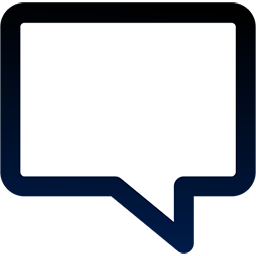
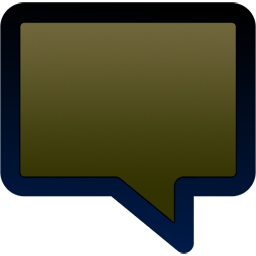
updated callout sizing and graphics asset

diff --git a/lib/components/callout.dart b/lib/components/callout.dart
@@ -12,7 +12,6 @@ class Callout {
   double value;
 
   TextPainter tp;
-  TextStyle textStyle;
   Offset textOffset;
 
   Callout(this.fly) {
@@ -21,10 +20,6 @@ class Callout {
     tp = TextPainter(
       textAlign: TextAlign.center,
       textDirection: TextDirection.ltr,
-    );
-    textStyle = TextStyle(
-      color: Color(0xff000000),
-      fontSize: 15,
     );
   }
 
@@ -46,15 +41,18 @@ class Callout {
     }
 
     rect = Rect.fromLTWH(
-      fly.flyRect.left - (fly.game.tileSize * .25),
-      fly.flyRect.top - (fly.game.tileSize * .5),
+      fly.flyRect.left - (fly.game.tileSize * .75),
+      fly.flyRect.top - (fly.game.tileSize * .625),
       fly.game.tileSize * .75,
       fly.game.tileSize * .75,
     );
 
     tp.text = TextSpan(
       text: (value * 10).toInt().toString(),
-      style: textStyle,
+      style: TextStyle(
+        color: Color(0xffffffff),
+        fontSize: fly.game.tileSize * .375,
+      ),
     );
     tp.layout();
     textOffset = Offset(
